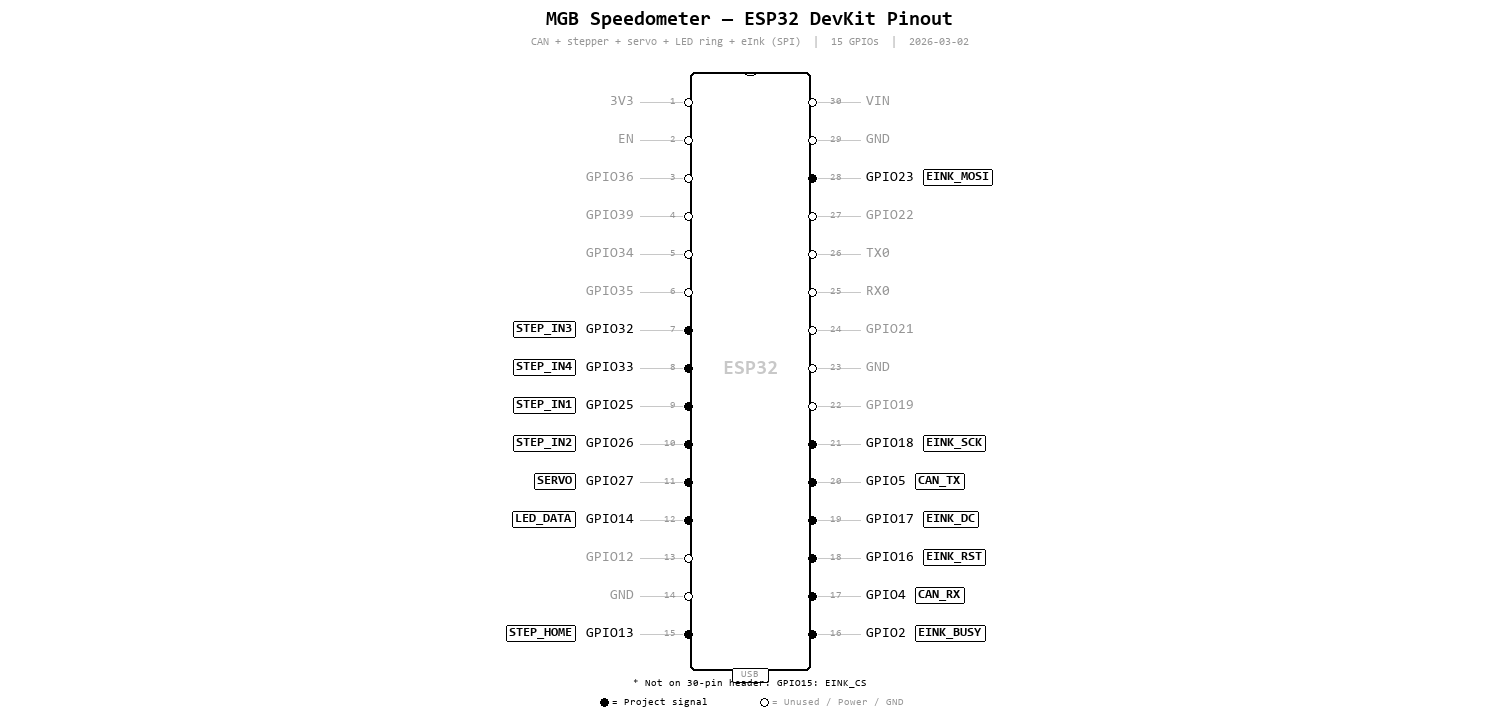
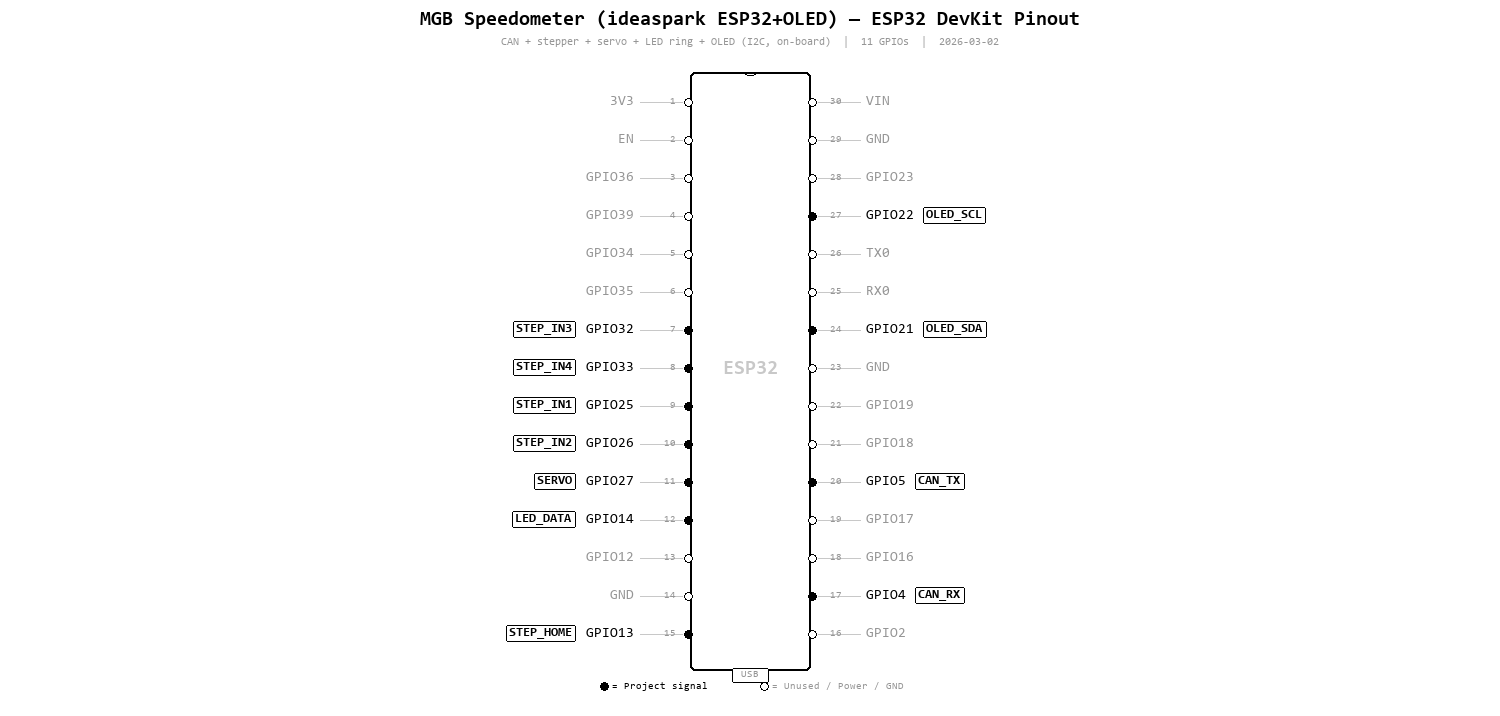
Speedometer: replace eInk with integrated OLED (ideaspark ESP32+SSD1306)
Switch from planned Waveshare eInk (SPI, 6 pins) to on-board SSD1306
128x64 I2C OLED on ideaspark ESP32+OLED board (B0CN4F354N). OLED is
not driver-visible — will serve as diagnostic display. Currently shows
odometer value; full diagnostic layout (CAN activity, state, values)
is next step.

- platformio.ini: remove eInk pins, add OLED SDA=21/SCL=22, add
  Adafruit SSD1306 + GFX lib_deps
- main.cpp: OLED init, odometer renderer, self-test phase 6, dirty
  flag redraw
- Pinout generator + PNG regenerated (11 GPIOs, down from 15)
- READMEs updated (architecture diagram, component tables, status)

diff --git a/esp32/src/speedometer/main.cpp b/esp32/src/speedometer/main.cpp
@@ -5,15 +5,17 @@
  *   - 28BYJ-48 stepper needle (StepperWheel lib, cubic-eased)
  *   - Servo gear indicator disc (ServoGauge lib)
  *   - WS2812B LED ring (turn signals, hazards, ambient)
- *   - eInk odometer (future TODO)
+ *   - SSD1306 OLED odometer (128x64, I2C, integrated on ESP32 board)
  *
  * All speed/gear/odometer data comes from body controller via CAN —
  * no local sensor logic.
  */
 
 #include <Arduino.h>
+#include <Wire.h>
 #include <cmath>
 #include "esp_log.h"
+#include "Adafruit_SSD1306.h"
 #include "CanBus.h"
 #include "Heartbeat.h"
 #include "CanLog.h"
@@ -30,6 +32,14 @@ CanLog      canLog;
 LedRing     ledRing;
 ServoGauge  gearServo;
 StepperWheel stepperWheel;
+
+// ── OLED odometer (SSD1306 128x64, I2C) ──────────────────────────────
+static constexpr int OLED_WIDTH  = 128;
+static constexpr int OLED_HEIGHT = 64;
+Adafruit_SSD1306 oled(OLED_WIDTH, OLED_HEIGHT, &Wire, -1);  // no dedicated RST pin on ideaspark board
+bool     oledReady     = false;
+double   odometerMiles = 0.0;
+bool     odometerDirty = true;   // redraw on first frame
 
 // ── CAN silence watchdog ────────────────────────────────────────────
 bool canMessageReceived = false;
@@ -79,7 +89,38 @@ static void wheelToRGB(uint8_t pos, uint8_t &r, uint8_t &g, uint8_t &b) {
 }
 
 // ═════════════════════════════════════════════════════════════════════
-// Self-test: stepper sweep + LED chase + servo sweep
+// OLED odometer display
+// ═════════════════════════════════════════════════════════════════════
+static void oledDrawOdometer() {
+    if (!oledReady) return;
+    oled.clearDisplay();
+
+    // Format: "12345.6" — 1 decimal place
+    char buf[16];
+    snprintf(buf, sizeof(buf), "%.1f", odometerMiles);
+
+    oled.setTextColor(SSD1306_WHITE);
+
+    // Large odometer value centered
+    oled.setTextSize(3);
+    int16_t x1, y1;
+    uint16_t w, h;
+    oled.getTextBounds(buf, 0, 0, &x1, &y1, &w, &h);
+    oled.setCursor((OLED_WIDTH - w) / 2, (OLED_HEIGHT - h) / 2 - 6);
+    oled.print(buf);
+
+    // "MILES" label below
+    oled.setTextSize(1);
+    oled.getTextBounds("MILES", 0, 0, &x1, &y1, &w, &h);
+    oled.setCursor((OLED_WIDTH - w) / 2, OLED_HEIGHT - h - 2);
+    oled.print("MILES");
+
+    oled.display();
+    odometerDirty = false;
+}
+
+// ═════════════════════════════════════════════════════════════════════
+// Self-test: stepper sweep + LED chase + servo sweep + OLED test
 // ═════════════════════════════════════════════════════════════════════
 void runSelfTest() {
     canLog.log(LogLevel::LOG_INFO, LogEvent::SELF_TEST_START);
@@ -162,6 +203,24 @@ void runSelfTest() {
         delay(150);
     }
 
+    // ── Phase 6: OLED test pattern ──────────────────────────────────
+    if (oledReady) {
+        oled.clearDisplay();
+        oled.fillRect(0, 0, OLED_WIDTH, OLED_HEIGHT, SSD1306_WHITE);
+        oled.display();
+        delay(200);
+        oled.clearDisplay();
+        oled.setTextColor(SSD1306_WHITE);
+        oled.setTextSize(2);
+        int16_t x1, y1;
+        uint16_t w, h;
+        oled.getTextBounds("ODO OK", 0, 0, &x1, &y1, &w, &h);
+        oled.setCursor((OLED_WIDTH - w) / 2, (OLED_HEIGHT - h) / 2);
+        oled.print("ODO OK");
+        oled.display();
+        delay(500);
+    }
+
     gearServo.writeDirect(0);
     canLog.log(LogLevel::LOG_INFO, LogEvent::SELF_TEST_PASS);
     ESP_LOGI(TAG, "Self-test complete.");
@@ -235,6 +294,17 @@ void setup() {
     gearServo.setRange(0.0f, 90.0f);     // angle range for gear disc
     gearServo.setSmoothing(0.3f);         // snappy — gear changes are discrete
 
+    // ── OLED odometer (I2C, hardwired on board) ───────────────────
+    Wire.begin(PIN_OLED_SDA, PIN_OLED_SCL);
+    if (oled.begin(SSD1306_SWITCHCAPVCC, 0x3C)) {
+        oledReady = true;
+        oled.clearDisplay();
+        oled.display();
+        ESP_LOGI(TAG, "OLED init OK (128x64 @ 0x3C)");
+    } else {
+        ESP_LOGW(TAG, "OLED init FAILED — odometer display unavailable");
+    }
+
     // ── Self-test ───────────────────────────────────────────────────
     runSelfTest();
 
@@ -289,10 +359,16 @@ void loop() {
             break;
         }
 
-        // ── Odometer → future eInk display ──────────────────────────
-        case CAN_ID_BODY_ODOMETER:
-            // TODO: store for eInk update when driver is implemented
+        // ── Odometer → OLED display ──────────────────────────────────
+        case CAN_ID_BODY_ODOMETER: {
+            double miles;
+            memcpy(&miles, data, sizeof(double));
+            if (miles != odometerMiles) {
+                odometerMiles = miles;
+                odometerDirty = true;
+            }
             break;
+        }
 
         // ── GPS speed → future discrepancy check ────────────────────
         case CAN_ID_GPS_SPEED:
@@ -329,6 +405,9 @@ void loop() {
     gearServo.update();
     updateAnimations();
     ledRing.update();
+
+    // ── OLED odometer refresh (only when value changes) ───────────
+    if (odometerDirty) oledDrawOdometer();
 
     // ── CAN silence watchdog ────────────────────────────────────────
     if (!canMessageReceived && millis() > CAN_SILENCE_TIMEOUT_MS) {

diff --git a/docs/gen_pinout.py b/docs/gen_pinout.py
@@ -54,16 +54,14 @@ ESP_ENVS = {
         "signals": {5: "CAN_TX", 4: "CAN_RX", 14: "LED_DATA", 27: "SERVO"},
     },
     "speedometer": {
-        "title": "Speedometer",
-        "subtitle": "CAN + stepper + servo + LED ring + eInk (SPI)",
+        "title": "Speedometer (ideaspark ESP32+OLED)",
+        "subtitle": "CAN + stepper + servo + LED ring + OLED (I2C, on-board)",
         "signals": {
             5: "CAN_TX", 4: "CAN_RX", 14: "LED_DATA", 27: "SERVO",
             25: "STEP_IN1", 26: "STEP_IN2", 32: "STEP_IN3", 33: "STEP_IN4",
             13: "STEP_HOME",
-            23: "EINK_MOSI", 18: "EINK_SCK",
-            17: "EINK_DC", 16: "EINK_RST", 2: "EINK_BUSY",
+            21: "OLED_SDA", 22: "OLED_SCL",
         },
-        "off_board": {15: "EINK_CS"},
     },
     "body_controller": {
         "title": "Body Controller",

diff --git a/esp32/src/speedometer/README.md b/esp32/src/speedometer/README.md
@@ -1,18 +1,18 @@
 # Speedometer
 
-Stepper-motor slot-machine speed display with servo gear indicator, eInk odometer, and 12-LED WS2812B ring. ESP32 + TJA1050 CAN transceiver. Receives speed, gear, and odometer from the body controller over CAN.
+Stepper-motor slot-machine speed display with servo gear indicator, OLED odometer, and 12-LED WS2812B ring. ESP32 with integrated SSD1306 OLED (128x64, I2C) + TJA1050 CAN transceiver. Receives speed, gear, and odometer from the body controller over CAN.
 
 ## Components
 
 | Component | Part / Model | Interface | ESP32 Pin | Notes |
 |-----------|-------------|-----------|-----------|-------|
-| MCU | ESP32-WROOM-32 DevKit | — | — | |
+| MCU | ideaspark ESP32 + integrated 0.96" OLED (CH340) | — | — | SSD1306 128x64 hardwired to I2C |
 | CAN Transceiver | TJA1050 | TWAI | TX→**GPIO5**, RX→**GPIO4** | 5V logic, needs 5V supply |
 | LED Ring | WS2812B, 12 LEDs | Data | **GPIO14** | Adafruit NeoPixel |
 | Gear Indicator Servo | SG90 or MG90S, 180° | PWM | **GPIO27** | Rotates disc to show 1/2/3/4/R/N |
 | Stepper Motor | 28BYJ-48 + ULN2003 | GPIO | IN1→**GPIO25**, IN2→**GPIO26**, IN3→**GPIO32**, IN4→**GPIO33** | Drives slot-machine speed drum |
 | Home Sensor | Slotted opto-interrupter | Digital In | **GPIO13** | Active-HIGH when marker detected |
-| eInk Display | Waveshare 1.54" tri-color | SPI | MOSI→**GPIO23**, SCK→**GPIO18**, CS→**GPIO15**, DC→**GPIO17**, RST→**GPIO16**, BUSY→**GPIO2** | 200x200, black/white/red, 3.3V |
+| OLED Display | SSD1306 128x64 (on-board) | I2C | SDA→**GPIO21**, SCL→**GPIO22** | Hardwired on ideaspark board, 0x3C, no dedicated RST |
 | Voltage Regulator | LM2596 or similar | — | — | Vehicle 12V → 5V |
 | CAN Termination | 120 ohm resistor | — | — | End-of-bus nodes only |
 
@@ -35,7 +35,7 @@ See [common/README.md](../../../common/README.md) for full payload details.
 
 - **Stepper motor** drives a 1:1 wheel with MPH values — slot-machine style display. Uses `StepperWheel` library (28BYJ-48 via ULN2003) with optical home calibration, cubic-eased 1200 ms transitions, and shortest-path rotation.
 - **Servo** rotates a gear indicator disc showing "1", "2", "3", "4", "R", "N" through a viewport. Gear angle lookup: Neutral=15°, 1st=30°, 2nd=45°, 3rd=60°, 4th=75°, Reverse=0°.
-- **eInk display** (200x200, SPI, tri-color) shows odometer reading. *(Driver not yet implemented.)*
+- **OLED display** (128x64, I2C, SSD1306 integrated on ESP32 board) shows odometer reading in miles. Renders only on value change to minimize I2C traffic.
 - **Speed discrepancy indicator**: visual alert when `0x711` (hall sensor speed) and `0x720` (GPS speed) differ by a configurable percentage.
 - **LED ring**: turn signal / hazard animation from `0x710`, ambient brightness from `0x726`.
 - **Self-test** (`0x730`): needle sweep + LED ring pattern.

diff --git a/README.md b/README.md
@@ -24,7 +24,7 @@ CAN bus dashboard controller for a Nissan Leaf EV conversion in an MGB body. Sev
       │ ESP32   ││ ESP32   ││ ESP32 ││  ESP32    ││ ESP32 ││  Pi 4B  ││ Pi 3B   │
       │ TJA1050 ││ TJA1050 ││TJA1050││ TJA1050  ││TJA1050││USB2CAN  ││USB2CAN  │
       │ Servo   ││ Servo   ││ Servo ││ Stepper   ││ GPIO  ││3.4" DSI ││ 2" LCD  │
-      │ 24 LEDs ││ 24 LEDs ││24 LEDs││ eInk      ││ Hall  ││         ││ NEO-6M  │
+      │ 24 LEDs ││ 24 LEDs ││24 LEDs││ OLED      ││ Hall  ││         ││ NEO-6M  │
       │         ││         ││       ││ Servo     ││ BLE   ││         ││         │
       └─────────┘└─────────┘└───────┘│ LEDs      │└───┬───┘└─────────┘└─────────┘
                                      └───────────┘    │
@@ -58,7 +58,7 @@ Single shared bus. All devices sit directly on the Leaf EV-CAN. Custom dashboard
 | [Fuel Gauge](esp32/src/servo_gauge/README.md) | ESP32 + servo + 12 LEDs | `esp32/` env: `servo_fuel` | Battery SOC on 180° servo needle with LED ring |
 | [Amps Gauge](esp32/src/servo_gauge/README.md) | ESP32 + servo + 12 LEDs | `esp32/` env: `servo_amps` | Battery current (center-zero) with LED ring |
 | [Temp Gauge](esp32/src/servo_gauge/README.md) | ESP32 + servo + 12 LEDs | `esp32/` env: `servo_temp` | Battery/inverter temperature with LED ring |
-| [Speedometer](esp32/src/speedometer/README.md) | ESP32 + stepper + servo + eInk | `esp32/` env: `speedometer` | Slot-machine speed drum, gear indicator, odometer |
+| [Speedometer](esp32/src/speedometer/README.md) | ESP32+OLED + stepper + servo | `esp32/` env: `speedometer` | Slot-machine speed drum, gear indicator, OLED odometer |
 | [Body Controller](esp32/src/body_controller/README.md) | ESP32 + GPIO + hall sensor | `esp32/` env: `body_controller` | Sensor hub: speed, gear, odometer, BLE bridge |
 | [Primary Display](python/primary-display/README.md) | Pi 4B + 3.4" DSI LCD | `python/primary-display/` | Main dash screen: pycairo + pygame, 5 contexts |
 | [GPS Display](python/gps-display/README.md) | Pi 3B + 2" SPI LCD + NEO-6M | `python/gps-display/` | 24hr clock dial, sun/moon arcs, ambient light |
@@ -161,7 +161,7 @@ python python/tools/codegen.py
 
 ### Not Yet Implemented
 
-- eInk odometer driver (speedometer has TODO placeholder)
+- OLED odometer hardware testing (driver implemented, needs on-board verification)
 - Primary Display Phase 3 (ReplaySource)
 - Phone app BLE and UI logic
 - Tool scripts (stubs only — no python-can integration)
